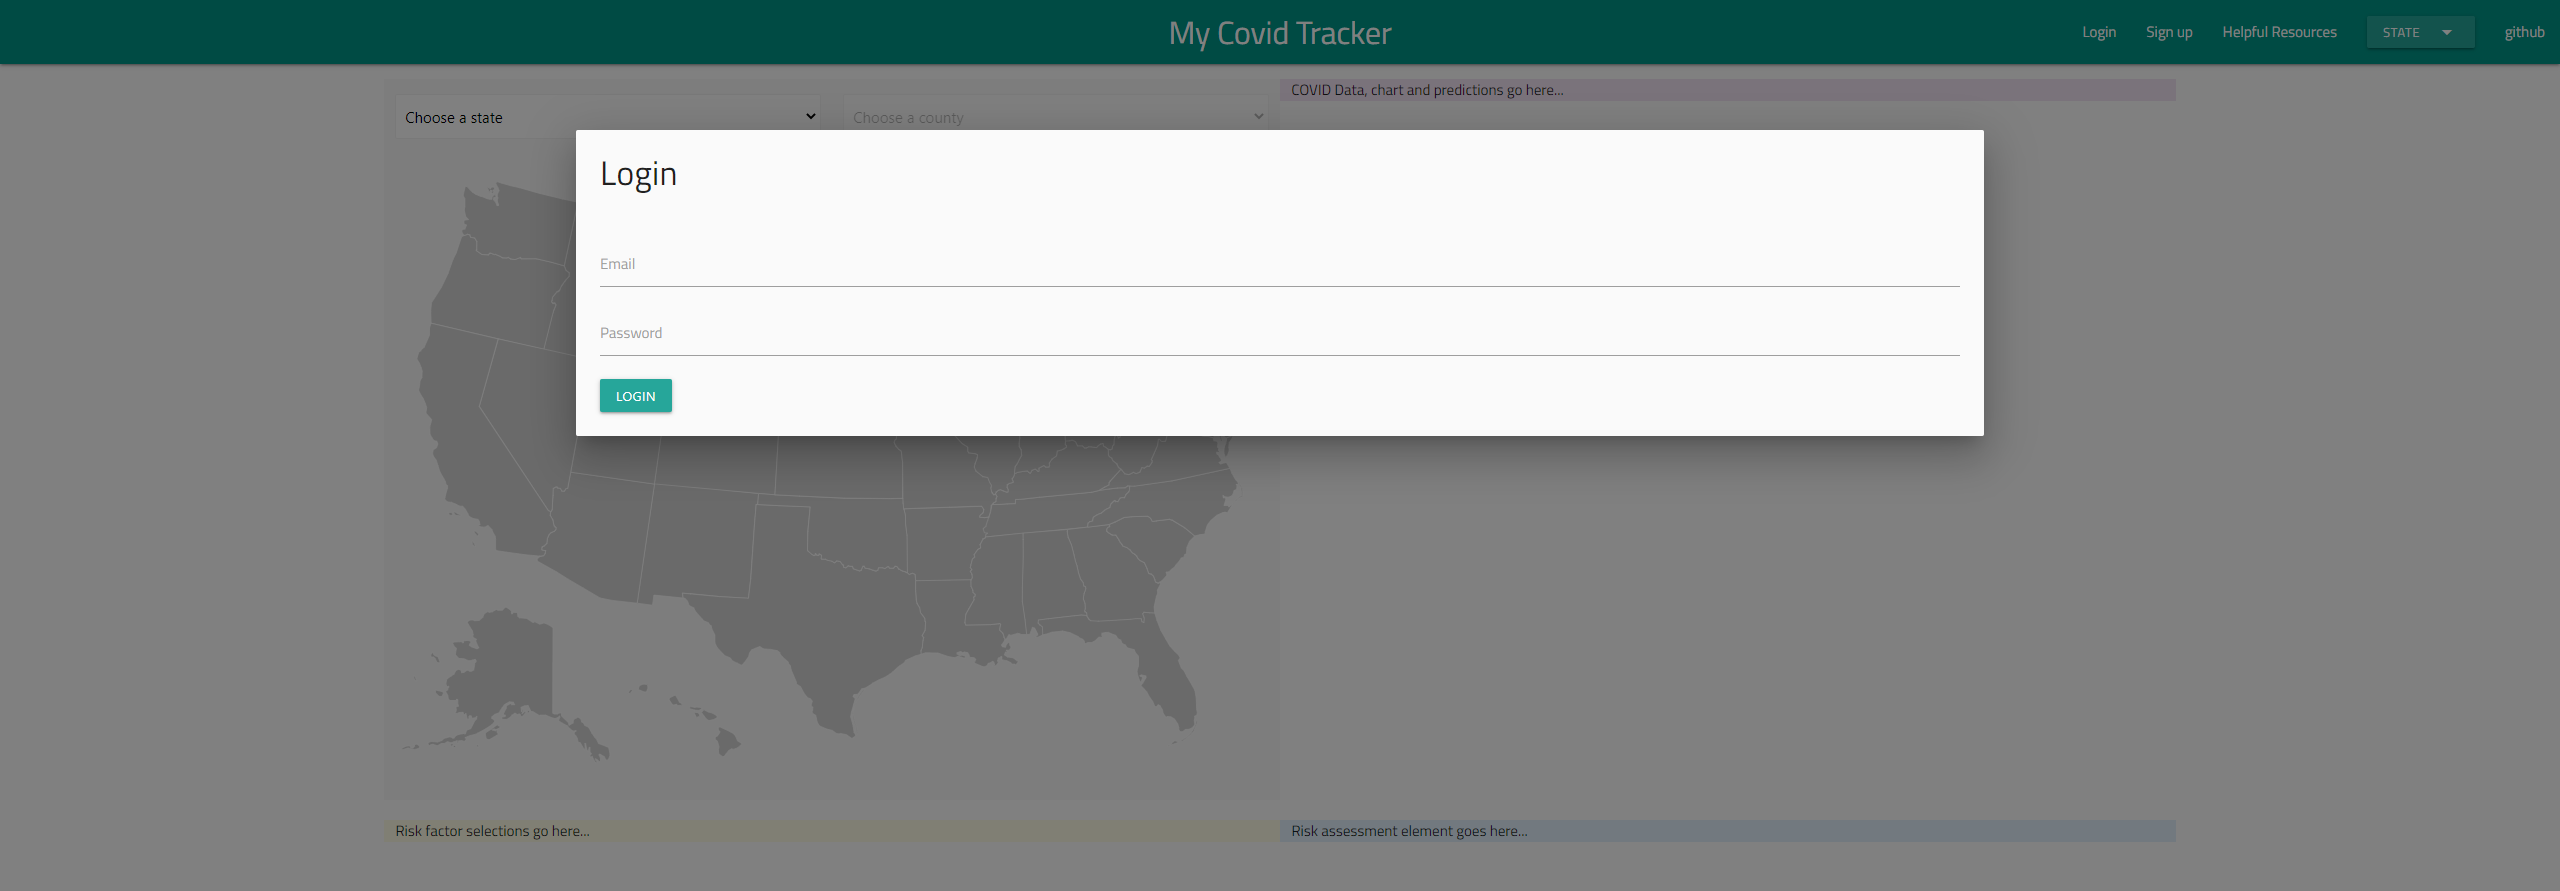
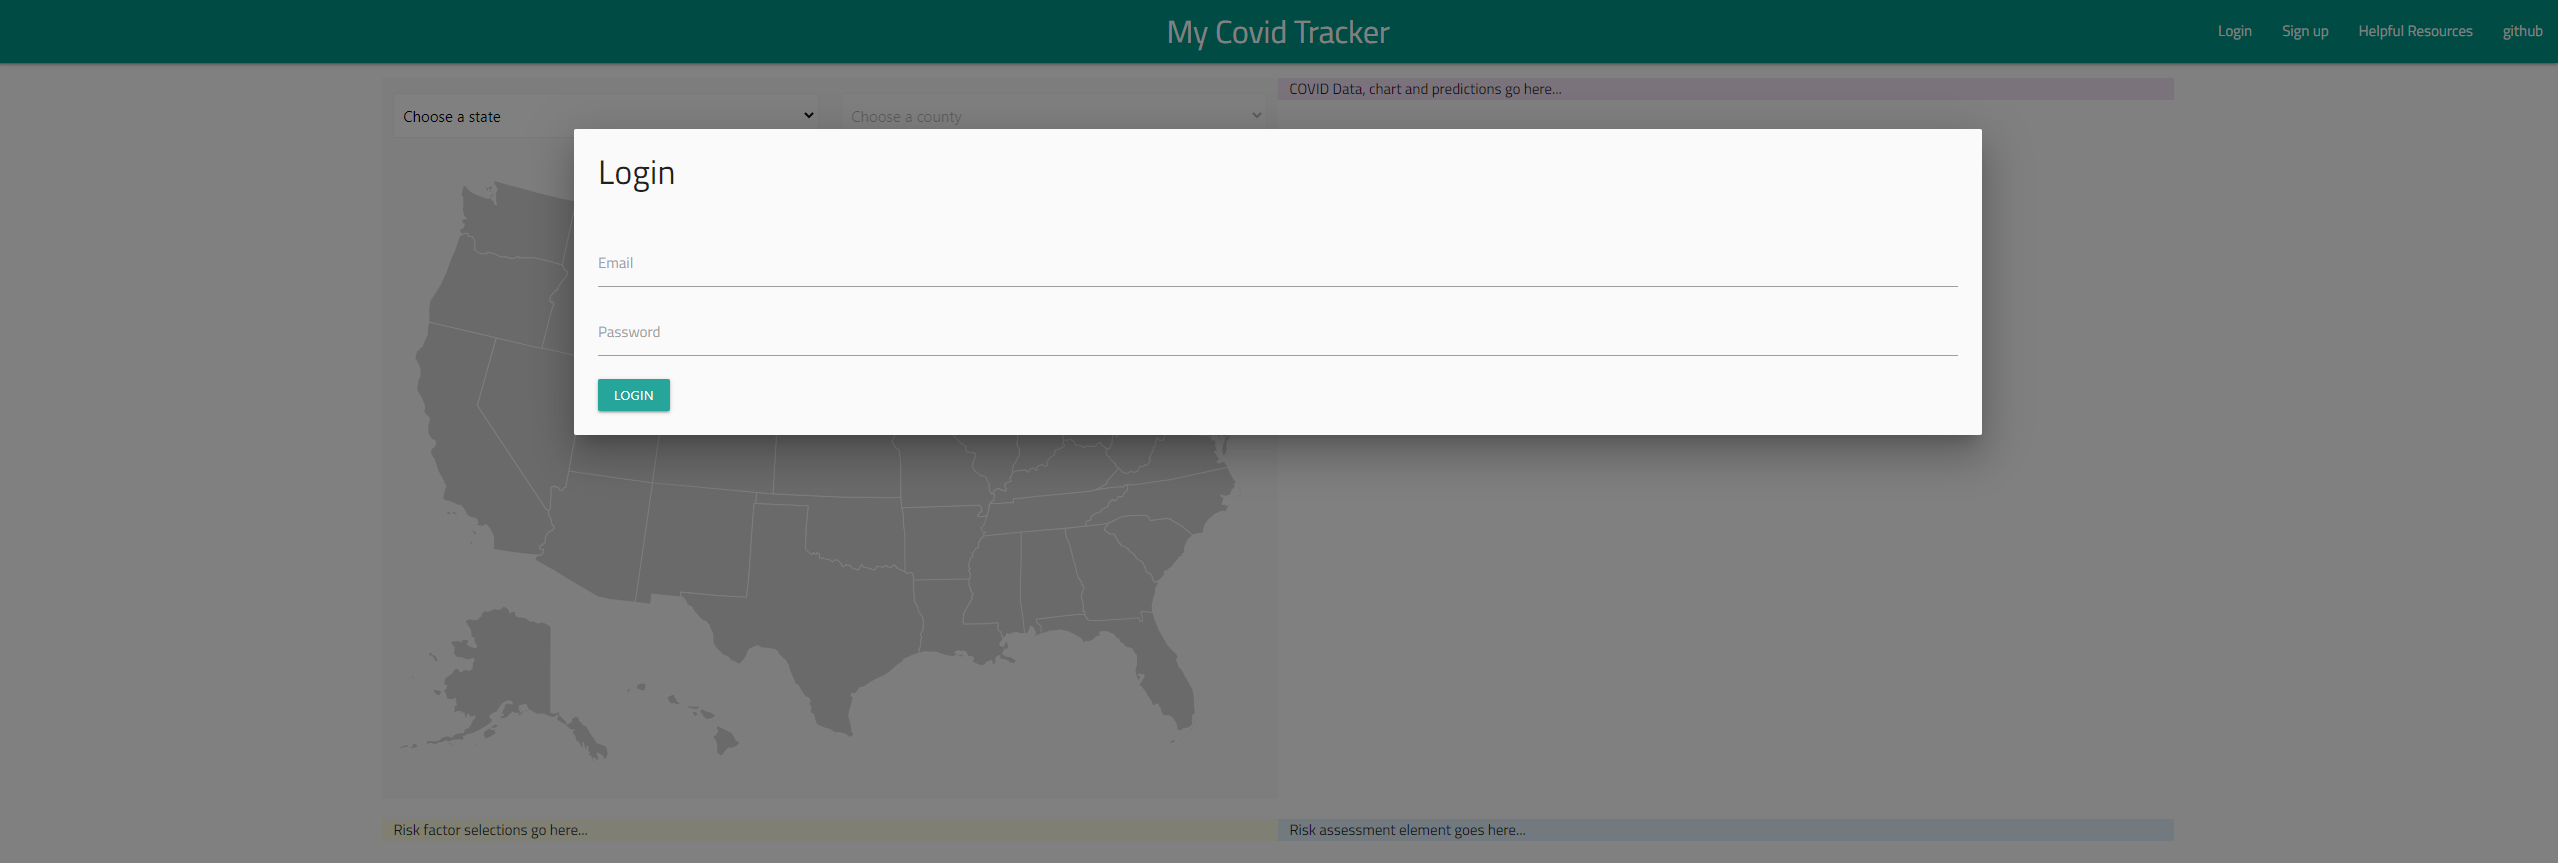
Add new UI images to architecture doc

diff --git a/architecture/architecture.md b/architecture/architecture.md
@@ -25,7 +25,17 @@ We will have a database for user information and a database to store current COV
 ### User Interface
 My Covid Tracker’s UI will be a webpage. The site will have a header containing the title of the project, account user/pass login, links to additional educational COVID resources, and a link to our project's GitHub. The middle-left body will hold dropdowns to manually select a US state, and select a county once state is selected. When a user selects a state, the webpage will display COVID-19 data for that state and provide risk assessment. This page will include the date the data had last been updated. It also will hold an interactive map of the US that will dynamically highlight and zoom to chosen state/county and will allow choosing state/county via mouse-click on the map. The middle-right body will hold all data and statistics, including a line graph with both historical COVID data as well as ML predictions. The user can select how many weeks in the future for the model to predict into. Case changes for user selections are represented both in percentage and numerically. The lower-left body will contain fields for risk factor entry. The risk factors will be entered first then a risk assessment in the lower-right body will be produced showing the likelihood of exposure based on the factors and location selected. This risk assessment can be saved to a user's profile if the user has created an account to track risk over time and save risk factor settings.
 
-![UI Diagram](https://github.com/goodmancode/myCovidTracker/blob/main/architecture/UI_mockup_withUIDs.png)
+***Main page w/ UIDs***
+![UI Diagram](https://github.com/goodmancode/myCovidTracker/blob/main/architecture/UI_mockup_withUIDs_sprint4.png)
+
+***Login Dialog***
+![UI Diagram](https://github.com/goodmancode/myCovidTracker/blob/main/architecture/UI_mockup_login.png)
+
+***Sign Up Dialog***
+![UI Diagram](https://github.com/goodmancode/myCovidTracker/blob/main/architecture/UI_mockup_signup.png)
+
+***Helpful Resources Dialog***
+![UI Diagram](https://github.com/goodmancode/myCovidTracker/blob/main/architecture/UI_mockup_resources.png)
 
 ### Resource Management
 Resource management will not be of concern with My Covid Tracker as the model will only process small amounts of numeric data without the need for hardware acceleration. The resources required are well within the capabilities of the intended implementation environment.
